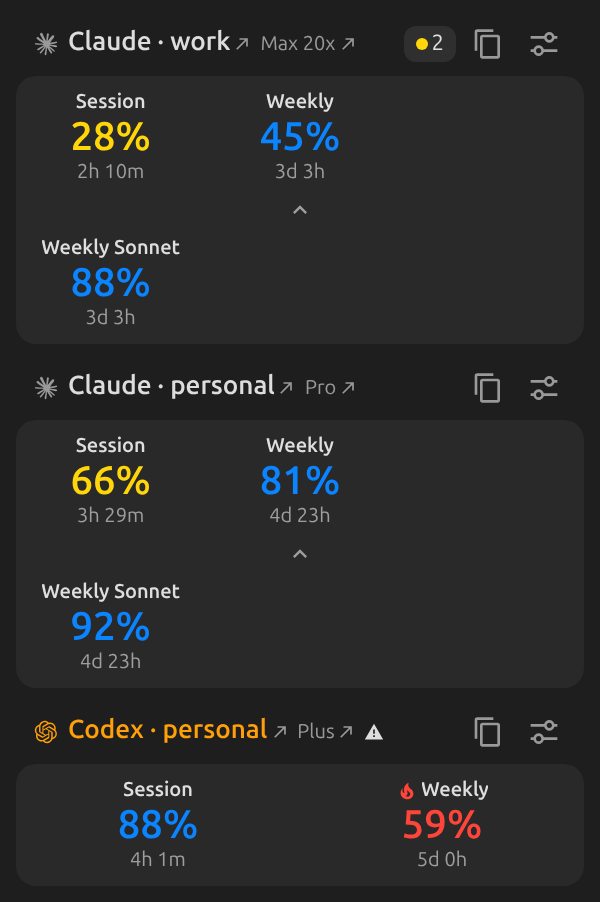
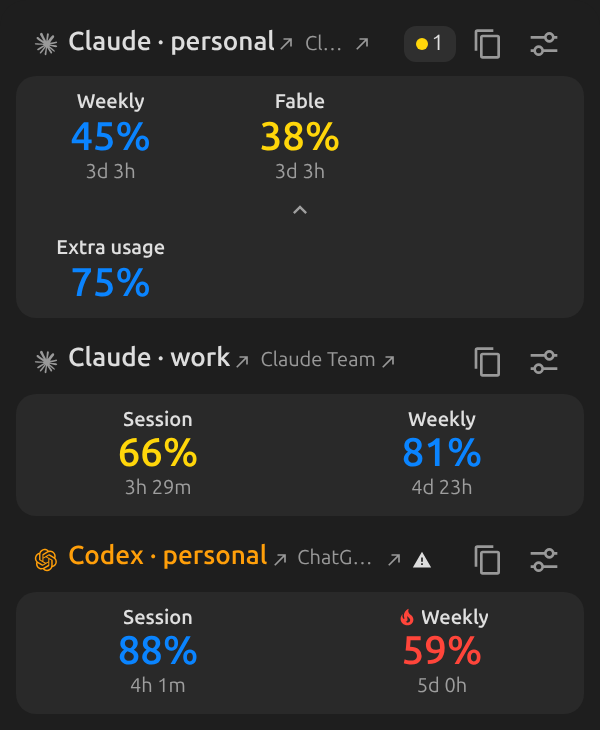
Redo the frames with the labels and plan names the binary emits
The first fixture named a weekly window and a plan that the binary does not emit. The report now has the shape of a real usage --json report, and one account has a third quota so the On Demand part of a card shows. Account names and figures are still made up.

diff --git a/README.md b/README.md
@@ -12,8 +12,14 @@ credential was used.
 - `layout-compact-summary.png` is the same report in a local build that has
   the compact visual. That build is not a pull request branch.
 - The report is a fixture: two accounts of one provider and one account of
-  another. One account has two banked rate-limit resets and one provider has
-  an open status-page incident.
+  another. One account has one banked rate-limit reset and extra usage
+  switched on, which is its third quota and so starts in the On Demand part
+  of its card; one provider has an open status-page incident.
+- The fixture has the shape of a real `usage --json` report: the labels
+  (`Session (5h)`, `Weekly (7d)`, `Fable (7d)`, `Extra usage`, `Codex 5h`,
+  `Codex weekly`) and
+  the plan names are the ones the binary emits. The popover shortens the
+  labels itself. Account names and figures are made up.
 - Both are Classic, dark theme, 300 px wide at 2x, rendered in headless
   Chromium on Linux from the built `popover.js` / `popover.css`, with Ubuntu
   Sans standing in for Segoe UI. These are **not** native Windows or macOS
